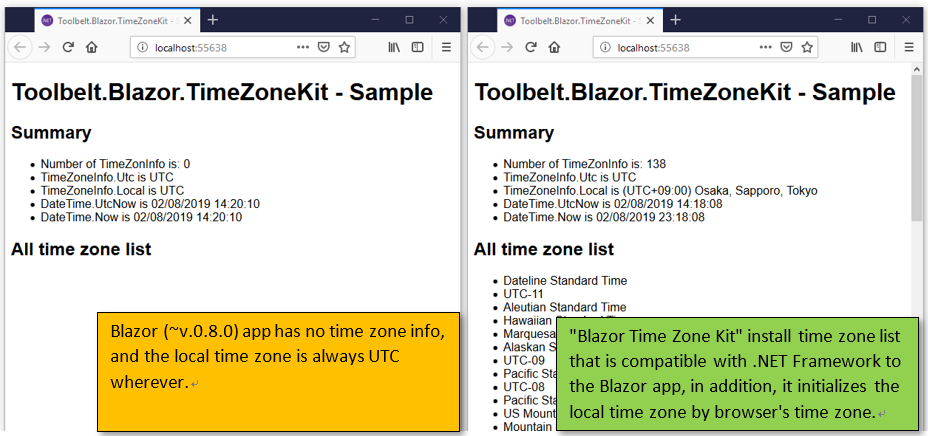
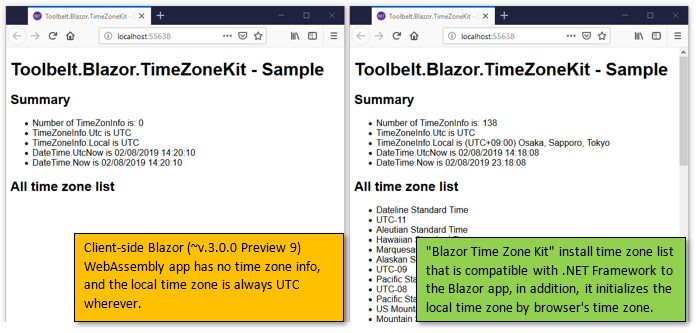
Update documents for Blazor v.3.0.0 preview 9.

diff --git a/README.md b/README.md
@@ -10,7 +10,7 @@ This package provides system time zones set, and local time zone initialization,
 
 ### Note
 
-At this time, the version of Blazor is v.3.0.0 Preview 8 or before, those doesn't contain any time zone info, and local time zone is always UTC wherever.
+At this time, the latest version of the client-side Blazor WebAssembly app is v.3.0.0 Preview 9, it doesn't contain any time zone info, and local time zone is always UTC wherever.
 
 See also: 
 
@@ -20,7 +20,7 @@ See also:
 
 ## Supported Blazor versions
 
-"Blazor WebAssembly App (client-side) Time Zone Kit" ver.5.x supports  Blazor WebAssembly App versions **from ver.3.0.0-prevew 4 to preview 8.**
+"Blazor WebAssembly App (client-side) Time Zone Kit" ver.5.x supports  Blazor WebAssembly App versions **from ver.3.0.0-preview 4 to preview 9.**
 
 ## How to install and use it?
 
